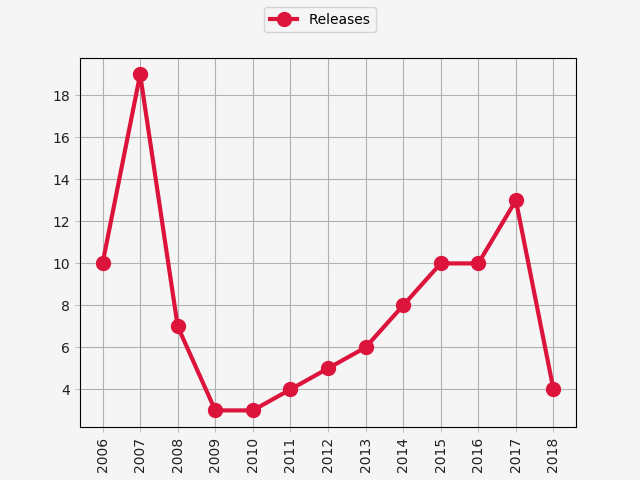
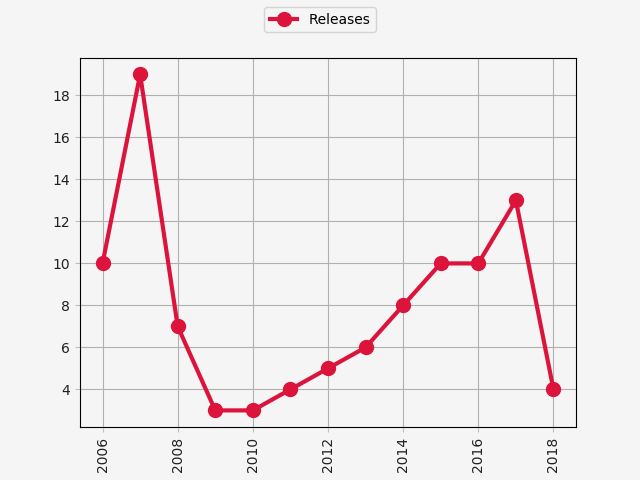
Make users plot continuous
Interpolates for years where data isn't available.  2006 (year 0) is set
to 100 users.

diff --git a/2018/Users-Meeting/Introduction-to-Bio-Formats/figures.py b/2018/Users-Meeting/Introduction-to-Bio-Formats/figures.py
@@ -14,7 +14,8 @@ def setup_plot():
 
 # load from the csv
 
-df = pandas.read_csv('stats.csv')
+df = pandas.read_csv('stats.csv', comment='#')
+df = df.interpolate(limit_area='inside', limit_direction='backward')
 
 # classic users/formats/contribs chart
 
@@ -23,7 +24,7 @@ setup_plot()
 # contribs
 plot.plot('Year', 'Contributors', data=df, marker='o', color='royalblue')
 
-# users
+# users - expected to be sparse
 plot.plot('Year', 'Users (thousands)', data=df, marker='D', color='gold')
 
 # formats
@@ -41,6 +42,6 @@ plot.figlegend(loc='upper center')
 plot.savefig('images/releases.png')
 
 # TODO:
-# - classic chart:
-#   * make plots continuous
+# - show every year on X axes
+
 
